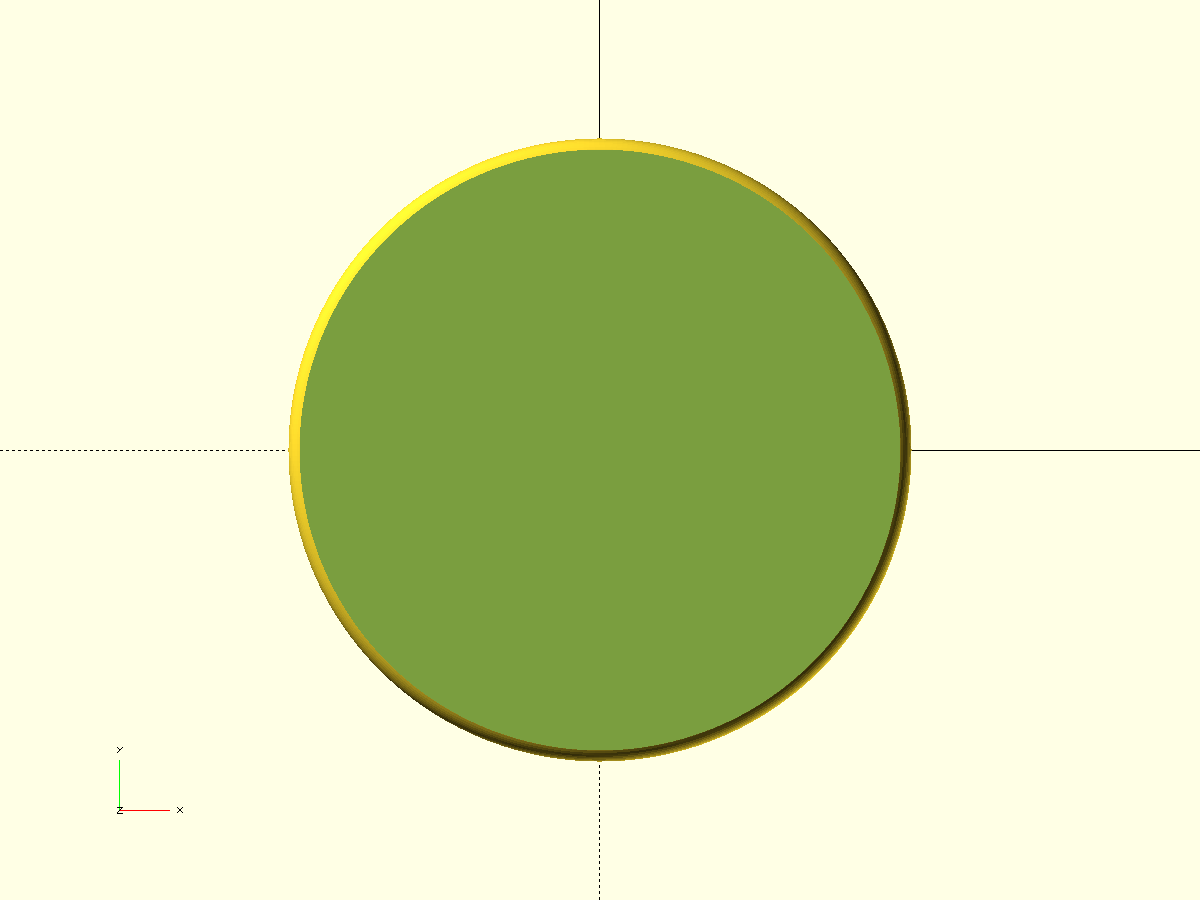
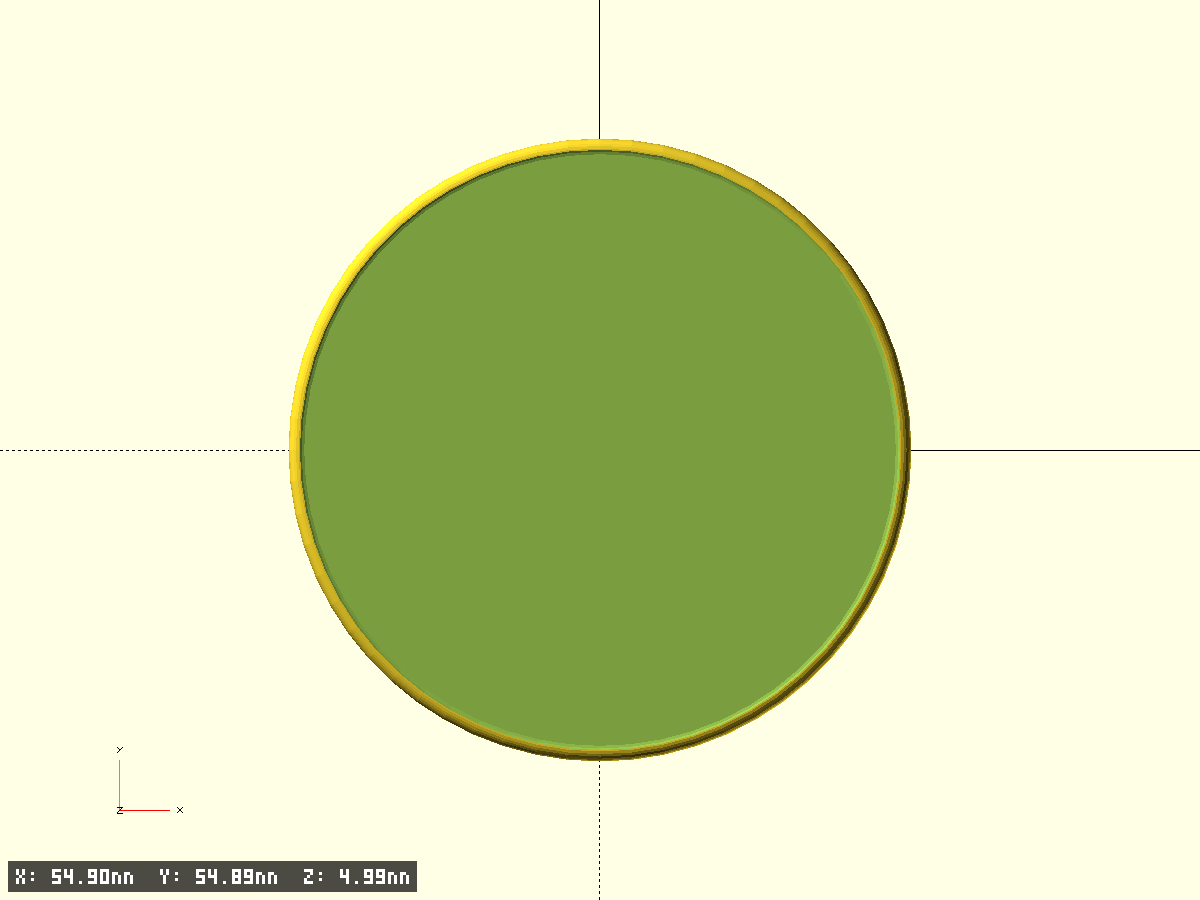
feat(can-cap-54): minkowski cap and skills
Refactor can-cap-54 to v1.2 with minkowski outer body, closed bottom, and 1 mm top edge. Tighten cap_inner_d to 52.8 mm and add grip taper parameters.

Move Cursor slash commands to .claude/skills with .agents/skills symlink. Document $openscad-* skills in README and add can-cap-54 to models catalog. Refresh preview PNGs.

diff --git a/models/README.md b/models/README.md
@@ -10,6 +10,7 @@
 | Circular Plate Cap Ø123.6 (shell 1 mm, height 5 mm)<br>2025-08-25<br>[2025-08-25-plate-cap-123](2025-08-25-plate-cap-123/)<br>[plate-cap-123.scad](2025-08-25-plate-cap-123/plate-cap-123.scad) | Circular Plate Cap Ø123.6 (shell 1 mm, height 5 mm) | ![iso](2025-08-25-plate-cap-123/preview.iso.png) ![xy](2025-08-25-plate-cap-123/preview.xy.png) | ![xz](2025-08-25-plate-cap-123/preview.xz.png) ![yz](2025-08-25-plate-cap-123/preview.yz.png) |
 | Ceiling Corner Support for Printer Frame<br>2025-08-25<br>[2025-08-25-printer-ceiling-support](2025-08-25-printer-ceiling-support/)<br>[printer-ceiling.scad](2025-08-25-printer-ceiling-support/printer-ceiling.scad) | Ceiling Corner Support for Printer Frame | ![iso](2025-08-25-printer-ceiling-support/preview.iso.png) ![xy](2025-08-25-printer-ceiling-support/preview.xy.png) | ![xz](2025-08-25-printer-ceiling-support/preview.xz.png) ![yz](2025-08-25-printer-ceiling-support/preview.yz.png) |
 | Audio Tools Case — base<br>2025-08-26<br>[2025-08-26-box-3-sections](2025-08-26-box-3-sections/)<br>[audio-case.scad](2025-08-26-box-3-sections/audio-case.scad) | Audio Tools Case — base | ![iso](2025-08-26-box-3-sections/preview.iso.png) ![xy](2025-08-26-box-3-sections/preview.xy.png) | ![xz](2025-08-26-box-3-sections/preview.xz.png) ![yz](2025-08-26-box-3-sections/preview.yz.png) |
+| Can Cap Ø53.7 (shell 1 mm, height 5 mm)<br>2025-08-26<br>[2025-08-26-cup-cap-76](2025-08-26-cup-cap-76/)<br>[can-cap-54.scad](2025-08-26-cup-cap-76/can-cap-54.scad) | Can cap Ø53.7 minkowski washer with 1 mm top edge | ![iso](2025-08-26-cup-cap-76/preview.iso.png) ![xy](2025-08-26-cup-cap-76/preview.xy.png) | ![xz](2025-08-26-cup-cap-76/preview.xz.png) ![yz](2025-08-26-cup-cap-76/preview.yz.png) |
 | Circular Plate Cap Ø123.6 (shell 1 mm, height 5 mm)<br>2025-08-26<br>[2025-08-26-cup-cap-76](2025-08-26-cup-cap-76/)<br>[cup-cap-100.scad](2025-08-26-cup-cap-76/cup-cap-100.scad) | Circular Plate Cap Ø76.1 (shell 1 mm, height 10 mm) | ![iso](2025-08-26-cup-cap-76/preview.iso.png) ![xy](2025-08-26-cup-cap-76/preview.xy.png) | ![xz](2025-08-26-cup-cap-76/preview.xz.png) ![yz](2025-08-26-cup-cap-76/preview.yz.png) |
 | Circular Plate Cap Ø123.6 (shell 1 mm, height 5 mm)<br>2025-08-26<br>[2025-08-26-cup-cap-76](2025-08-26-cup-cap-76/)<br>[cup-cap-76.scad](2025-08-26-cup-cap-76/cup-cap-76.scad) | Circular Plate Cap Ø76.1 (shell 1 mm, height 10 mm) | ![iso](2025-08-26-cup-cap-76/preview.iso.png) ![xy](2025-08-26-cup-cap-76/preview.xy.png) | ![xz](2025-08-26-cup-cap-76/preview.xz.png) ![yz](2025-08-26-cup-cap-76/preview.yz.png) |
 | phone iphone14 mini table holder — base<br>2025-08-26<br>[2025-08-26-phone-iphone14-mini-table-holder](2025-08-26-phone-iphone14-mini-table-holder/)<br>[phone-holder.scad](2025-08-26-phone-iphone14-mini-table-holder/phone-holder.scad) | phone iphone14 mini table holder — base | ![iso](2025-08-26-phone-iphone14-mini-table-holder/preview.iso.png) ![xy](2025-08-26-phone-iphone14-mini-table-holder/preview.xy.png) | ![xz](2025-08-26-phone-iphone14-mini-table-holder/preview.xz.png) ![yz](2025-08-26-phone-iphone14-mini-table-holder/preview.yz.png) |

diff --git a/README.md b/README.md
@@ -20,11 +20,19 @@ Using this project, agents with LLM like GPT-5 can create 3D models on OpenSCAD 
 
 ## How to start
 - Clone repository in Cursor, Windsurf or Codex.
-- Ask agent to create model, `/create-model` in Windsurf and Cursor.
-- Ask agent to check png renders with `/check-renders`
-- Check other slash commands: `/simplify`, `/validate`
+- Ask agent to create a model with `$openscad-create-model`.
+- Ask agent to check png renders with `$openscad-check-renders`.
+- Use `$openscad-simplify` and `$openscad-validate` for refactoring and review.
 - Run `npm run watch` to watch for changes and recompile stl, png renders, use png as context for agent for fixes.
 - Install recommended editor extension OpenSCAD for quick open scad file in OpenSCAD.
+
+## Agent skills
+Project skills live in `.claude/skills`. The `.agents/skills` path is a symlink to the same directory, so agents that scan `.agents` can discover the same workflows.
+
+- `$openscad-create-model` — create a new dated model folder from the template, write the model README first, then implement the SCAD file with the required project structure.
+- `$openscad-check-renders` — reopen `preview.iso.png`, `preview.xy.png`, and other render images after SCAD changes, compare expected and actual geometry, and fix visual mismatches.
+- `$openscad-simplify` — simplify SCAD code while preserving geometry, especially by replacing repeated local code with variables, loops, or helpers from `modules.scad`.
+- `$openscad-validate` — review a model technically: describe its modules, find suspicious or hardcoded numbers, check required parameters, and suggest concrete fixes.
 
 ## Environment (.env)
 - __Setup__: Copy `.env.example` to `.env` and set `openscad_path`.
@@ -58,6 +66,8 @@ npm run create-project printer-ceiling-support printer-ceiling
 - `YYYY-MM-DD-short-slug/` — one folder per model
   - `model-name.scad` — primary OpenSCAD source
   - `model-name.stl` — optional export (may be git‑ignored)
+- `.claude/skills/` — project skills for model creation, render checking, simplification, and validation
+- `.agents/skills` — symlink to `.claude/skills`
 - `AGENTS.md` — contributor guidelines
 
 - __Windows notes__:

diff --git a/.claude/skills/openscad-create-model/SKILL.md b/.claude/skills/openscad-create-model/SKILL.md
@@ -1,0 +1,36 @@
+---
+name: openscad-create-model
+description: Create a new project folder for an OpenSCAD 3D model in this repository. Use when the user asks to create, scaffold, start, or implement a new model, including choosing a long model name, short kebab-case SCAD filename, README, model fragments, and template-generated project structure.
+---
+
+# OpenSCAD Create Model
+
+## Workflow
+
+1. Read `AGENTS.md` and inspect 2-3 existing model README files before creating a new model.
+2. Define the model long name and short name:
+   - Use a descriptive kebab-case long name for the dated folder.
+   - Use a short kebab-case name for the main `.scad` file.
+3. Run the project generator:
+
+```bash
+npm run create-project long-name short-name
+```
+
+4. Ask for or infer the dimensions needed for the physical object before final geometry work.
+5. Write the model `README.md` first:
+   - Describe the model purpose.
+   - List every fragment/detail that will exist in the SCAD file.
+   - Record key dimensions, clearances, and print assumptions.
+6. Implement the SCAD file:
+   - Add `description = "...";` near the top with a one-line model description.
+   - Keep all tunable dimensions as named variables near the top.
+   - Use `use <../modules.scad>;`.
+   - Keep all modules at top scope; do not define inline modules.
+   - Create separate modules for each fragment/detail.
+   - Provide `show_all()` or `main()` as the entry point and call it at the end.
+   - Support `test_fragment` clipping through `intersection()` when appropriate.
+
+## Completion
+
+Before finishing, remove template TODOs, check that filenames match the folder slug, and run the most relevant OpenSCAD render/export command available in the project.

diff --git a/.claude/skills/openscad-validate/SKILL.md b/.claude/skills/openscad-validate/SKILL.md
@@ -1,0 +1,34 @@
+---
+name: openscad-validate
+description: Review an OpenSCAD model for technical completeness and maintainability. Use when the user asks to validate, audit, review, or check a SCAD model for module structure, suspicious dimensions, hardcoded numbers, missing variables, or mismatches with the README.
+---
+
+# OpenSCAD Validate
+
+## Workflow
+
+1. Read the model README and SCAD file.
+2. Create a concise technical description of the whole model:
+   - Purpose.
+   - Main printed parts/fragments.
+   - Key dimensions and clearances.
+   - Expected print orientation or fit constraints when documented.
+3. Find each module in the SCAD file and describe what it contributes to the model.
+4. Check for suspicious numbers:
+   - Hardcoded dimensions inside modules.
+   - Repeated numeric literals that should be named variables.
+   - Offsets, tolerances, and clearances that are not explained.
+   - Values that conflict with README dimensions or top-level parameters.
+5. Check required project conventions:
+   - `description = "...";` near the top.
+   - `use <../modules.scad>;`.
+   - Required `$fn`, `$fa`, `$fs`, `pin_fs`, and service parameters.
+   - Top-level modules only.
+   - Separate modules for separate fragments/details.
+   - `show_all()` or `main()` entry point called at the end.
+   - `test_fragment` support when the model uses fragment clipping.
+6. Suggest concrete fixes, including variable names and likely replacement expressions.
+
+## Output
+
+Lead with issues ordered by severity. Include file and line references when possible, then a short summary of the model structure.

diff --git a/.claude/skills/openscad-simplify/SKILL.md b/.claude/skills/openscad-simplify/SKILL.md
@@ -1,0 +1,28 @@
+---
+name: openscad-simplify
+description: Simplify an OpenSCAD model without changing its geometry. Use when the user asks to simplify SCAD code, reduce duplication, replace local geometry code with modules from modules.scad, or make a model easier to maintain while preserving rendered output.
+---
+
+# OpenSCAD Simplify
+
+## Workflow
+
+1. Read the target `.scad` file and `modules.scad`.
+2. Identify repeated or overly complex geometry that can be expressed more directly without changing dimensions:
+   - Repeated holes, ribs, pins, clips, chamfers, frames, or cutouts.
+   - Boolean blocks that can be grouped into named top-level modules.
+   - Magic offsets that duplicate existing variables.
+3. Look for reusable modules in `modules.scad` that can replace local code.
+4. Preserve behavior:
+   - Do not change model dimensions, clearances, placement, orientation, or `test_fragment` behavior unless the user asks.
+   - Keep all modules at top scope.
+   - Keep variables in `snake_case` and all dimensions in millimeters.
+5. Apply small refactors:
+   - Extract top-level modules for repeated fragments.
+   - Replace duplicated numeric expressions with named variables.
+   - Use list-driven loops for repeated positions when clearer.
+6. Verify by running a render/export or the closest available project check and comparing the relevant preview images if they exist.
+
+## Output
+
+Summarize what was simplified and explicitly call out that geometry was intended to remain unchanged.

diff --git a/.claude/skills/openscad-check-renders/SKILL.md b/.claude/skills/openscad-check-renders/SKILL.md
@@ -1,0 +1,23 @@
+---
+name: openscad-check-renders
+description: Inspect OpenSCAD preview render images for a model and fix geometry mismatches. Use when the user asks to check renders, compare expected versus actual model shape, review preview.iso.png or preview.xy.png, or diagnose visual problems after SCAD changes.
+---
+
+# OpenSCAD Check Renders
+
+## Workflow
+
+1. Open the current render images again even if they were opened earlier. After every SCAD change, assume `preview.iso.png`, `preview.xy.png`, and other render PNGs may have changed.
+2. Identify the intended geometry from the README, SCAD parameters, user request, and nearby model context.
+3. Compare expected geometry against actual render geometry:
+   - Overall dimensions and orientation.
+   - Visible missing or extra cutouts.
+   - Misaligned holes, frames, pins, ribs, lips, or clips.
+   - Unexpected intersections, floating parts, inverted axes, or wrong Z placement.
+4. Trace each visual problem back to the responsible variables/modules in the SCAD file.
+5. Fix the SCAD with the smallest geometry-preserving change that addresses the mismatch.
+6. Regenerate or reopen renders after each fix and repeat until the render matches the expected model.
+
+## Notes
+
+Prefer visual evidence over assumptions. Mention any remaining uncertainty when the expected physical dimensions are not documented.
